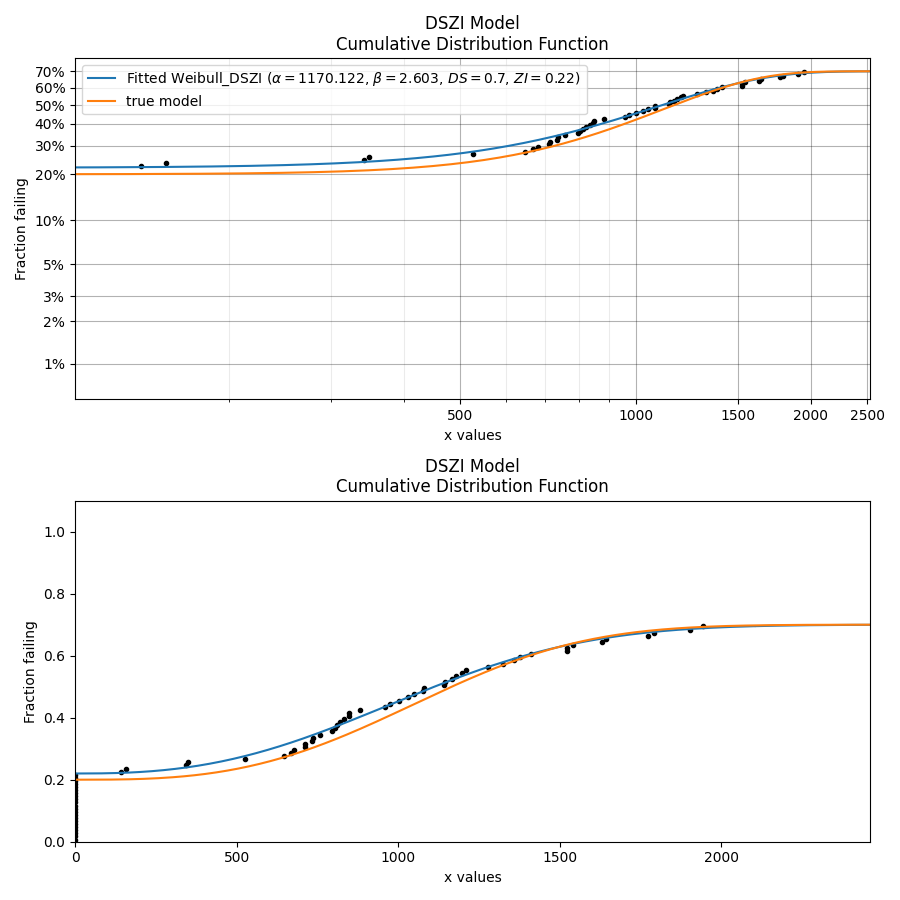
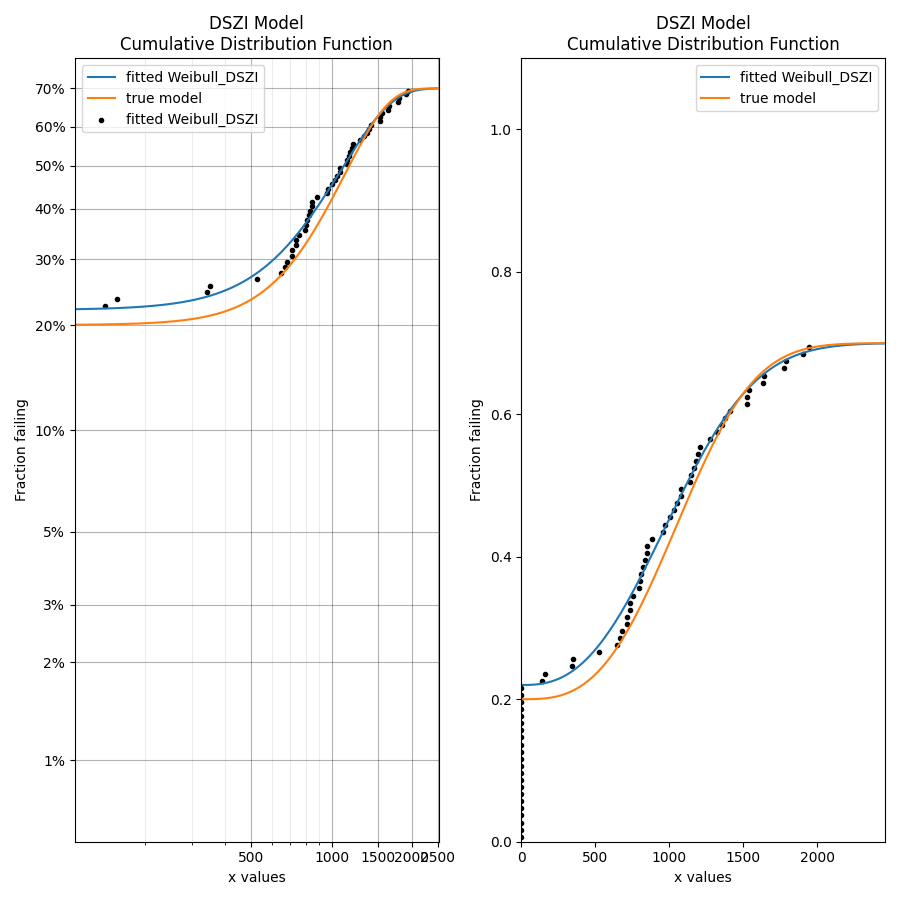
updating docs

diff --git a/docs/DSZI models.rst b/docs/DSZI models.rst
@@ -276,7 +276,7 @@ In this example we will create a DSZI model with DS=0.7 and ZI=0.2.
 Based on these parameters, we expect the random samples to be around 70% failures and of those failures 20% of the total samples (failures + right censored) should be zeros due to the zero inflated fraction.
 We draw the random samples from the model and then fit a Weibull_DSZI model to the data.
 The result is surprisingly accurate showing DS=0.700005 and ZI=0.22, with the alpha and beta parameters closely resembling the parameters of the input Weibull Distribution.
-The plot below shows the CDF on the Weibull probability plot (top) and on linear axes (bottom) which each provide a different perspective of how the distribution models the failure points.
+The plot below shows the CDF on the Weibull probability plot (left) and on linear axes (right) which each provide a different perspective of how the distribution models the failure points.
 
 .. code:: python
     
@@ -288,15 +288,16 @@ The plot below shows the CDF on the Weibull probability plot (top) and on linear
     model = DSZI_Model(distribution=Weibull_Distribution(alpha=1200,beta=3),DS=0.7,ZI=0.2)
     failures, right_censored = model.random_samples(100,seed=5,right_censored_time=3000)
     
-    plt.subplot(211)
-    fit = Fit_Weibull_DSZI(failures=failures,right_censored=right_censored,show_probability_plot=True)
+    plt.subplot(121)
+    fit = Fit_Weibull_DSZI(failures=failures,right_censored=right_censored,show_probability_plot=True,label='fitted Weibull_DSZI')
     model.CDF(label='true model')
     plt.legend()
     
-    plt.subplot(212)
+    plt.subplot(122)
     fit.distribution.CDF(label='fitted Weibull_DSZI')
     model.CDF(label='true model')
     plot_points(failures=failures,right_censored=right_censored)
+    plt.legend()
     plt.tight_layout()
     plt.show()
 

diff --git a/docs/Optimizers.rst b/docs/Optimizers.rst
@@ -5,9 +5,6 @@
 Optimizers
 ''''''''''
 
-.. Note::
-   This documentation applies to version 0.6.0 (currently unreleased). Prior to version 0.6.0, the default optimizer is L-BFGS-B below 97% censored data and TNC above 97% censored data, and the nelder-mead optimizer was not available as a bounded optimizer. The option to specify "best" for the optimizer is new in version 0.6.0.
-
 **What is an optimizer?**
 
 An optimizer is an algorithm that uses two primary inputs; a target function and an initial guess. The optimizer's job is to figure out which input to the target function will minimise the output of the target function.
